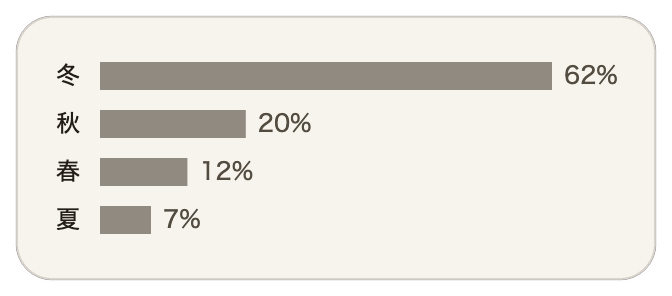
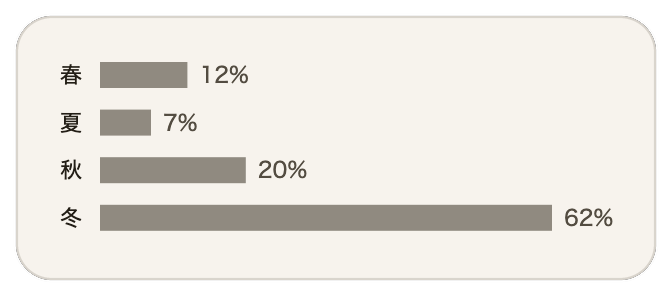
docs: order snowman figure by season and keep its SVG source

diff --git a/README.md b/README.md
@@ -25,7 +25,7 @@ percentile-ranked triage は、System One model（短時間かつ低コストで
 
 2026年9月、TypeSafe が System One model の Jev を公開しました。Jev に「『雪だるまを作った』の季節は、春・夏・秋・冬のどれか」と尋ねると、「冬 62%、秋 20%、春 12%、夏 7%」のように、選択肢ごとの確率で答えることができます。
 
-<img src="docs/images/answer_example.png" width="336" alt="「雪だるまを作った」の季節への Jev の答え（冬 62%、秋 20%、春 12%、夏 7%）">
+<img src="docs/images/answer_example.png" width="336" alt="「雪だるまを作った」の季節への Jev の答え（春 12%、夏 7%、秋 20%、冬 62%）">
 
 確率がすぐに返ってくるので、大量の案件を、急ぐ順に並べるのに使えるのではないかと考え、オープンウェイトの System One model である decider（0.8b・2b・4b）を手元の PC で動かして、確かめることにしました。
 
